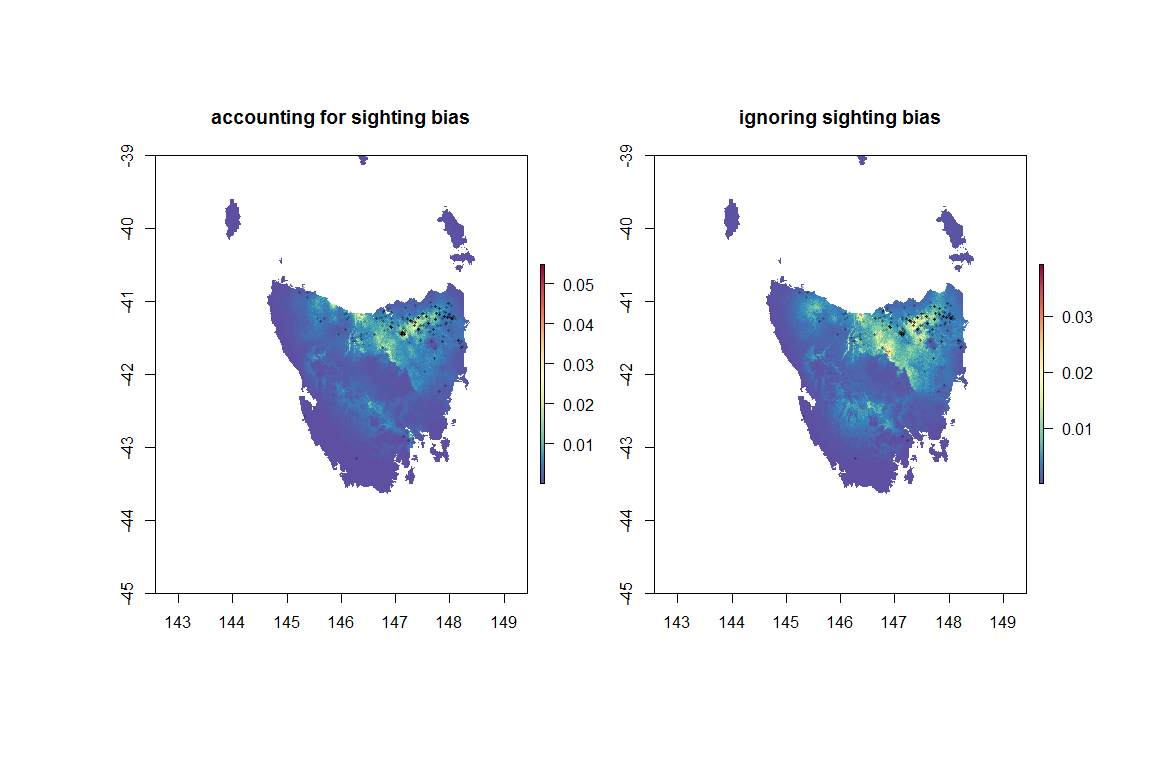
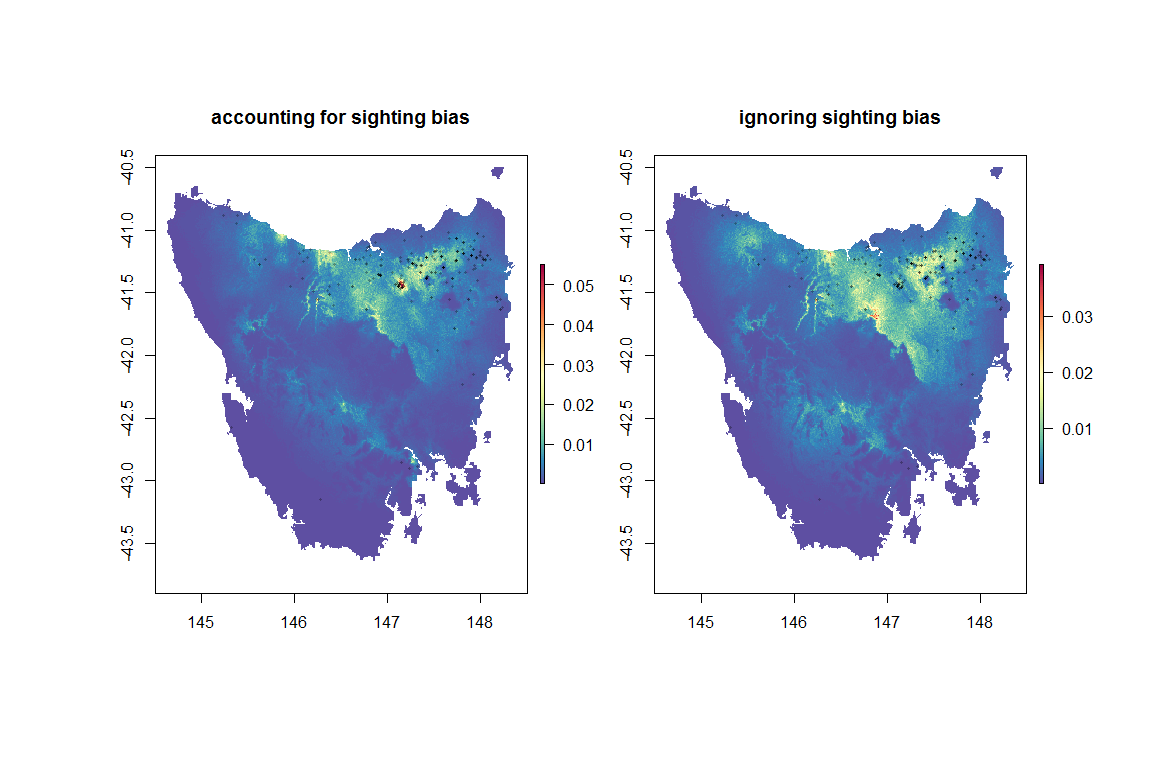
update to readme

diff --git a/readme.md b/readme.md
@@ -354,9 +354,11 @@ p_v_lampra_wo_s_cell <- p_v_lampra_wo_s*area(tassie_preds_two)*1000
 jet.colors <- colorRampPalette(rev(RColorBrewer::brewer.pal(11 , "Spectral")))
 
 par(mfrow=c(1,2),oma=c(4,4,4,4))
-plot(p_v_lampra_w_s_cell,col=jet.colors(100),main='accounting for sighting bias')
+plot(p_v_lampra_w_s_cell,col=jet.colors(100),main='accounting for sighting bias',
+  xlim=c(144.5, 148.5), ylim=c(-43.8,-40.5))
 points(po_v_lampra,pch=16,cex=0.4,col=rgb(0, 0, 0, 0.3))
-plot(p_v_lampra_wo_s_cell,col=jet.colors(100),main='ignoring sighting bias')
+plot(p_v_lampra_wo_s_cell,col=jet.colors(100),main='ignoring sighting bias',
+  xlim=c(144.5, 148.5), ylim=c(-43.8,-40.5))
 points(po_v_lampra,pch=16,cex=0.4,col=rgb(0, 0, 0, 0.3))
 ```
 
